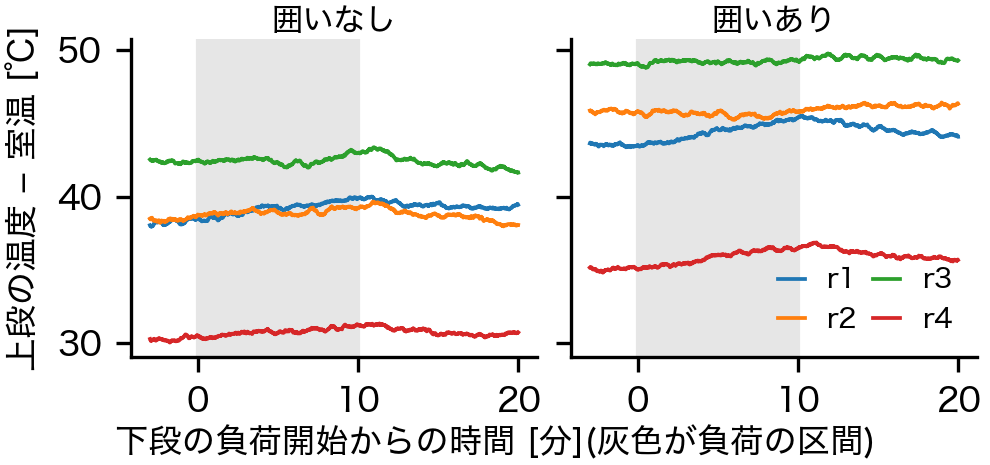
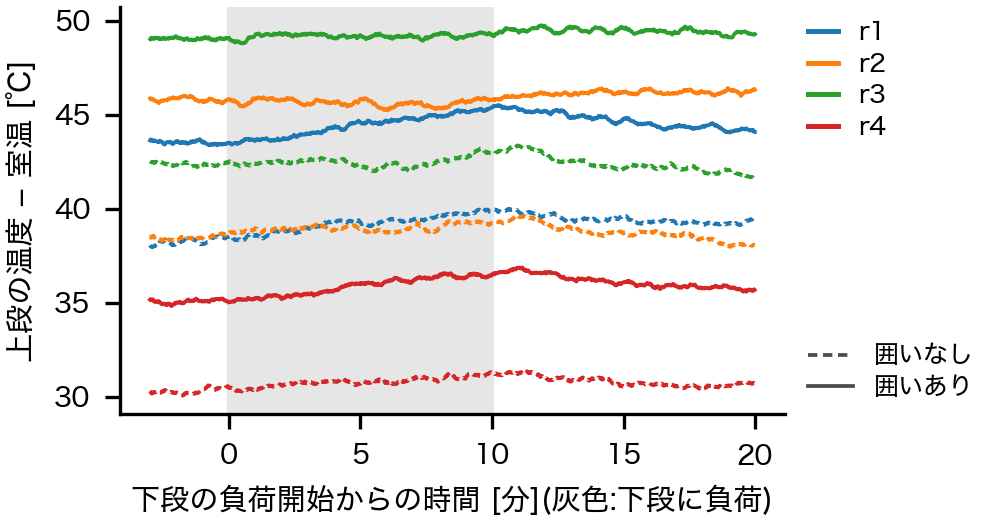
レジュメ:先生の指摘(11/26 夕)を反映。温度上昇・干渉ありの定義を文で、主語を補う、負荷 10 分・休み 12 分の理由、式の根拠と引用(熱 RC モデル、カルマンフィルタ)、図 2 を囲いなし点線・ありで実線に重ねた、「経路が小さい」をやめた、囲いありの再実験の結果

diff --git a/scripts/fig_resume.py b/scripts/fig_resume.py
@@ -60,27 +60,39 @@ def load(exp):
 
 
 def fig_rise(exps, phase):
-    fig, axes = plt.subplots(1, len(exps), figsize=(3.3, 1.55), sharey=True, squeeze=False)
+    """下段に負荷をかけたときの上段の温度 − 室温。11/26 夜、先生の指摘(横軸が同じなら重ねて線の種類で分ける)で
+    1 つの図にした:色 = ノード、点線 = 囲いなし、実線 = 囲いあり"""
+    fig, ax = plt.subplots(figsize=(3.3, 1.75))
     colors = ["#1f77b4", "#ff7f0e", "#2ca02c", "#d62728"]
-    for ax, (exp, lab) in zip(axes[0], exps):
+    styles = {"囲いなし": (0, (2.5, 1.5)), "囲いあり": "-"}
+    pe_last = 0
+    for exp, lab in exps:
         tel, ev, amb = load(exp)
         ps = ev[(ev.event == "phase_start") & (ev.phase == phase)].ts.iloc[0]
         pe = ev[(ev.event == "phase_end") & (ev.phase == phase)].ts.iloc[0]
+        pe_last = max(pe_last, (pe - ps) / 60)
         t0, t1 = ps - 180, pe + 600
         a = amb[amb.name.str.contains(ROOM)].sort_values("ts")
         for c, role in zip(colors, ["r1", "r2", "r3", "r4"]):
             g = tel[(tel.host == f"raspi{role[1:]}") & (tel.ts >= t0) & (tel.ts <= t1)].sort_values("ts")
             T = g.temp.rolling(30, center=True, min_periods=5).mean()
             room = np.interp(g.ts, a.ts, a.temperature)
-            ax.plot((g.ts - ps) / 60, T - room, color=c, lw=0.9, label=role)
-        ax.axvspan(0, (pe - ps) / 60, color="0.9", zorder=0)
-        ax.set_title(lab, fontsize=7.5, pad=2)
-        for s in ["top", "right"]:
-            ax.spines[s].set_visible(False)
-    axes[0][0].set_ylabel("上段の温度 − 室温 [℃]")
-    fig.supxlabel("下段の負荷開始からの時間 [分](灰色が負荷の区間)", fontsize=8)
-    axes[0][-1].legend(fontsize=6.5, frameon=False, ncol=2, loc="lower right", handlelength=1, columnspacing=0.6)
-    fig.tight_layout(pad=0.2, w_pad=0.4)
+            ax.plot((g.ts - ps) / 60, T - room, color=c, lw=0.9, ls=styles[lab])
+    ax.axvspan(0, pe_last, color="0.9", zorder=0)
+    from matplotlib.lines import Line2D
+    h1 = [Line2D([], [], color=c, lw=1.2) for c in colors]
+    h2 = [Line2D([], [], color="0.3", lw=0.9, ls=styles[k]) for k in styles]
+    l1 = ax.legend(h1, ["r1", "r2", "r3", "r4"], fontsize=6, frameon=False, loc="upper left",
+                   bbox_to_anchor=(1.0, 1.02), handlelength=1.2, labelspacing=0.3)
+    ax.add_artist(l1)
+    ax.legend(h2, list(styles), fontsize=6, frameon=False, loc="lower left", bbox_to_anchor=(1.0, -0.02),
+              handlelength=1.8, labelspacing=0.3)
+    ax.set_ylabel("上段の温度 − 室温 [℃]", fontsize=7)
+    ax.set_xlabel("下段の負荷開始からの時間 [分](灰色:下段に負荷)", fontsize=7)
+    ax.tick_params(labelsize=6.5)
+    for s_ in ["top", "right"]:
+        ax.spines[s_].set_visible(False)
+    fig.tight_layout(pad=0.2)
     fig.savefig(FIG / "fig_res_rise.png", dpi=300)
 
 
